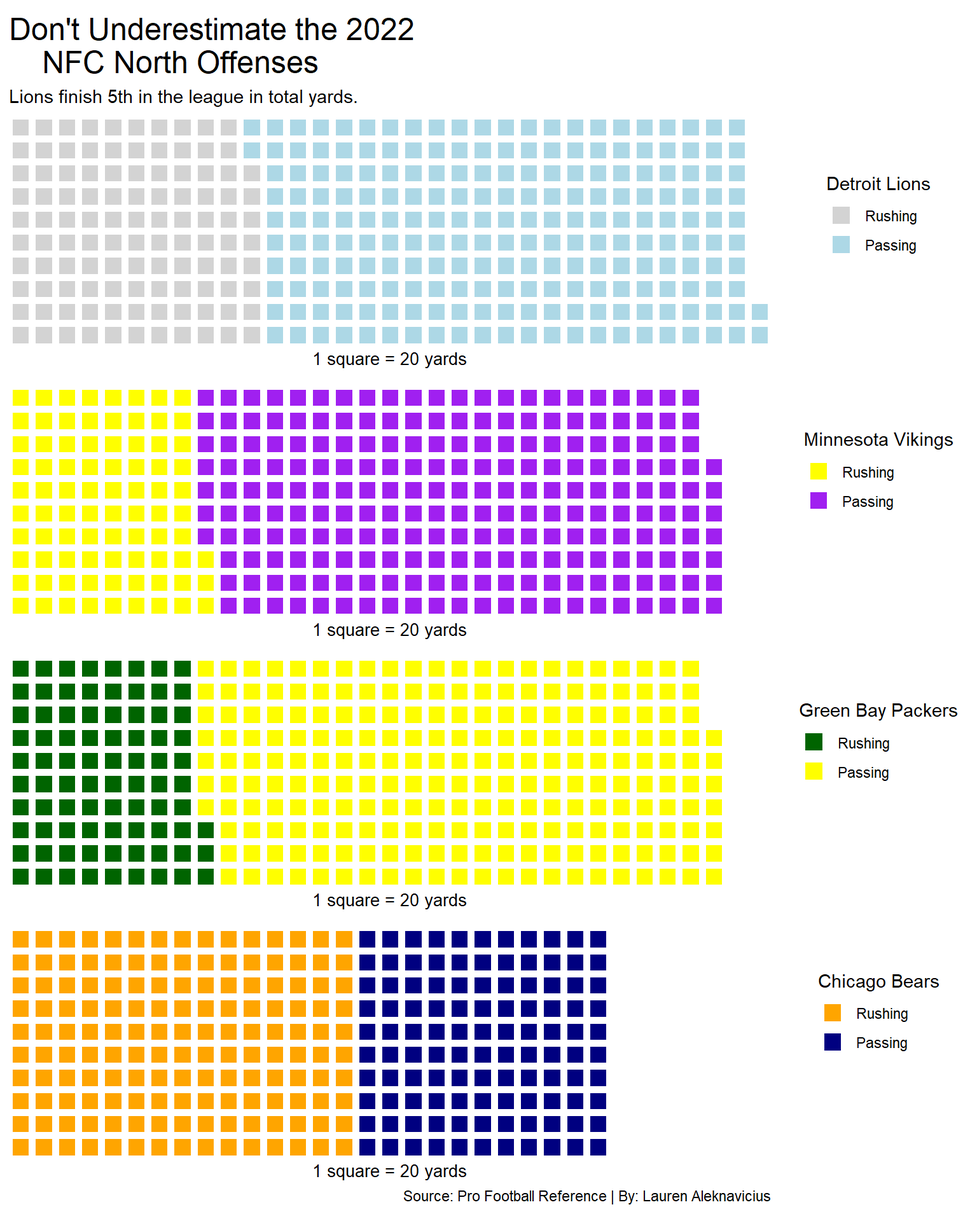
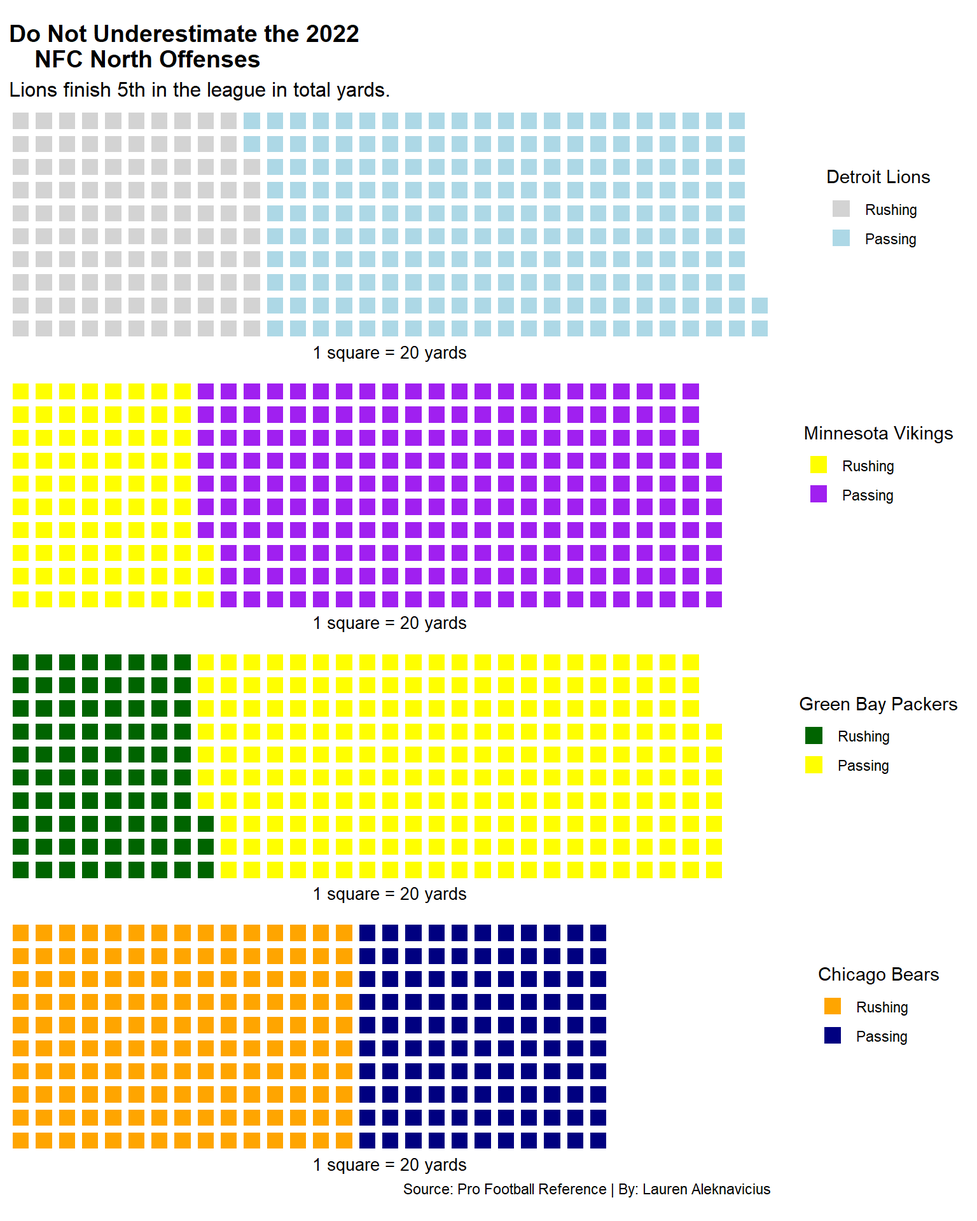
first post draft

diff --git a/posts/middle-of-the-pack/index.html b/posts/middle-of-the-pack/index.html
@@ -145,8 +145,8 @@ pre > code.sourceCode > span > a:first-child::before { text-decoration: underlin
       <h1 class="title">Was the NFC North the most cursed conference in the 2022 season?</h1>
                                 <div class="quarto-categories">
                 <div class="quarto-category">football</div>
-                <div class="quarto-category">NFC</div>
-                <div class="quarto-category">NFL</div>
+                <div class="quarto-category">sports</div>
+                <div class="quarto-category">data</div>
               </div>
                   </div>
   </div>
@@ -182,6 +182,12 @@ pre > code.sourceCode > span > a:first-child::before { text-decoration: underlin
 
 
 
+<p>The NFC North fans have been let down time after time watching their team throughout the entire 2022 season. The NFC North consists of the Green Bay Packers, Detroit Lions, Chicago Bears, and Minnesota Vikings. These teams had high hopes for 2022; however, they continuously finish in an unwanted standing.</p>
+<p>The last time a team in the NFC North played in the Super Bowl was in 2011. Green Bay won the game. The conference ranks among the last in the league for Super Bowl appearances. In fact, the Lions have never even won a NFC North title. The last time they won a title was in 1993, when the conference was the NFC Central.</p>
+<p>The NFC North has been could see there is a different dynamic between the conference throughout the entire 2022 season, for better and for worse.</p>
+<p>This begs the question: Was the NFC North the most cursed Conference in the 2022 season?</p>
+<p>Let’s take a look at the numbers.</p>
+<p>The first number we will look at is the total amount of takeaways for each NFL team throughout the season. Where do the NFC North defenses rank among the rest of the league?</p>
 <div class="cell">
 <details>
 <summary>Code</summary>
@@ -282,84 +288,103 @@ pre > code.sourceCode > span > a:first-child::before { text-decoration: underlin
 <span id="cb2-18"><a href="#cb2-18" aria-hidden="true" tabindex="-1"></a>  <span class="at">colors =</span> <span class="fu">c</span>(<span class="st">"lightgrey"</span>, <span class="st">"lightblue"</span>)</span>
 <span id="cb2-19"><a href="#cb2-19" aria-hidden="true" tabindex="-1"></a>) <span class="sc">+</span></span>
 <span id="cb2-20"><a href="#cb2-20" aria-hidden="true" tabindex="-1"></a>  <span class="fu">labs</span>(</span>
-<span id="cb2-21"><a href="#cb2-21" aria-hidden="true" tabindex="-1"></a>    <span class="at">title =</span> <span class="st">"Don't Underestimate the 2022</span></span>
+<span id="cb2-21"><a href="#cb2-21" aria-hidden="true" tabindex="-1"></a>    <span class="at">title =</span> <span class="st">"Do Not Underestimate the 2022</span></span>
 <span id="cb2-22"><a href="#cb2-22" aria-hidden="true" tabindex="-1"></a><span class="st">    NFC North Offenses"</span>,</span>
 <span id="cb2-23"><a href="#cb2-23" aria-hidden="true" tabindex="-1"></a>    <span class="at">subtitle =</span> <span class="st">"Lions finish 5th in the league in total yards."</span></span>
-<span id="cb2-24"><a href="#cb2-24" aria-hidden="true" tabindex="-1"></a>  ) </span>
-<span id="cb2-25"><a href="#cb2-25" aria-hidden="true" tabindex="-1"></a><span class="sc">+</span> <span class="fu">guides</span>(<span class="at">fill=</span><span class="fu">guide_legend</span>(<span class="at">title=</span><span class="st">"Detroit Lions"</span>)),</span>
-<span id="cb2-26"><a href="#cb2-26" aria-hidden="true" tabindex="-1"></a></span>
-<span id="cb2-27"><a href="#cb2-27" aria-hidden="true" tabindex="-1"></a><span class="fu">waffle</span>(</span>
-<span id="cb2-28"><a href="#cb2-28" aria-hidden="true" tabindex="-1"></a>  mnwaffle<span class="sc">/</span><span class="dv">20</span>,</span>
-<span id="cb2-29"><a href="#cb2-29" aria-hidden="true" tabindex="-1"></a>  <span class="at">rows=</span><span class="dv">10</span>,</span>
-<span id="cb2-30"><a href="#cb2-30" aria-hidden="true" tabindex="-1"></a>  <span class="at">xlab=</span> <span class="st">"1 square = 20 yards"</span>,</span>
-<span id="cb2-31"><a href="#cb2-31" aria-hidden="true" tabindex="-1"></a>  <span class="at">colors =</span> <span class="fu">c</span>(<span class="st">"yellow"</span>, <span class="st">"purple"</span>, <span class="st">"white"</span>)</span>
-<span id="cb2-32"><a href="#cb2-32" aria-hidden="true" tabindex="-1"></a>  )</span>
-<span id="cb2-33"><a href="#cb2-33" aria-hidden="true" tabindex="-1"></a>  <span class="sc">+</span> <span class="fu">guides</span>(<span class="at">fill=</span><span class="fu">guide_legend</span>(<span class="at">title=</span><span class="st">"Minnesota Vikings"</span>)),</span>
-<span id="cb2-34"><a href="#cb2-34" aria-hidden="true" tabindex="-1"></a></span>
-<span id="cb2-35"><a href="#cb2-35" aria-hidden="true" tabindex="-1"></a><span class="fu">waffle</span>(</span>
-<span id="cb2-36"><a href="#cb2-36" aria-hidden="true" tabindex="-1"></a>  mnwaffle<span class="sc">/</span><span class="dv">20</span>,</span>
-<span id="cb2-37"><a href="#cb2-37" aria-hidden="true" tabindex="-1"></a>  <span class="at">rows=</span><span class="dv">10</span>,</span>
-<span id="cb2-38"><a href="#cb2-38" aria-hidden="true" tabindex="-1"></a>  <span class="at">xlab=</span> <span class="st">"1 square = 20 yards"</span>,</span>
-<span id="cb2-39"><a href="#cb2-39" aria-hidden="true" tabindex="-1"></a>  <span class="at">colors =</span> <span class="fu">c</span>(<span class="st">"darkgreen"</span>, <span class="st">"yellow"</span>, <span class="st">"white"</span>)</span>
-<span id="cb2-40"><a href="#cb2-40" aria-hidden="true" tabindex="-1"></a>)</span>
-<span id="cb2-41"><a href="#cb2-41" aria-hidden="true" tabindex="-1"></a> <span class="sc">+</span> <span class="fu">guides</span>(<span class="at">fill=</span><span class="fu">guide_legend</span>(<span class="at">title=</span><span class="st">"Green Bay Packers"</span>)),</span>
-<span id="cb2-42"><a href="#cb2-42" aria-hidden="true" tabindex="-1"></a></span>
-<span id="cb2-43"><a href="#cb2-43" aria-hidden="true" tabindex="-1"></a><span class="fu">waffle</span> (</span>
-<span id="cb2-44"><a href="#cb2-44" aria-hidden="true" tabindex="-1"></a> chwaffle<span class="sc">/</span><span class="dv">20</span>,</span>
-<span id="cb2-45"><a href="#cb2-45" aria-hidden="true" tabindex="-1"></a>  <span class="at">rows =</span> <span class="dv">10</span>, </span>
-<span id="cb2-46"><a href="#cb2-46" aria-hidden="true" tabindex="-1"></a>  <span class="at">xlab=</span> <span class="st">"1 square = 20 yards"</span>,</span>
-<span id="cb2-47"><a href="#cb2-47" aria-hidden="true" tabindex="-1"></a>  <span class="at">colors =</span> <span class="fu">c</span>(<span class="st">"orange"</span>, <span class="st">"navy"</span>, <span class="st">"white"</span>)</span>
-<span id="cb2-48"><a href="#cb2-48" aria-hidden="true" tabindex="-1"></a>) <span class="sc">+</span></span>
-<span id="cb2-49"><a href="#cb2-49" aria-hidden="true" tabindex="-1"></a>  <span class="fu">labs</span>(</span>
-<span id="cb2-50"><a href="#cb2-50" aria-hidden="true" tabindex="-1"></a>    <span class="at">caption =</span> <span class="st">"Source: Pro Football Reference | By: Lauren Aleknavicius"</span></span>
-<span id="cb2-51"><a href="#cb2-51" aria-hidden="true" tabindex="-1"></a>  )</span>
-<span id="cb2-52"><a href="#cb2-52" aria-hidden="true" tabindex="-1"></a> <span class="sc">+</span> <span class="fu">guides</span>(<span class="at">fill=</span><span class="fu">guide_legend</span>(<span class="at">title=</span><span class="st">"Chicago Bears"</span>))</span>
-<span id="cb2-53"><a href="#cb2-53" aria-hidden="true" tabindex="-1"></a>)</span></code><button title="Copy to Clipboard" class="code-copy-button"><i class="bi"></i></button></pre></div>
+<span id="cb2-24"><a href="#cb2-24" aria-hidden="true" tabindex="-1"></a>  ) <span class="sc">+</span></span>
+<span id="cb2-25"><a href="#cb2-25" aria-hidden="true" tabindex="-1"></a>  <span class="fu">theme</span>(</span>
+<span id="cb2-26"><a href="#cb2-26" aria-hidden="true" tabindex="-1"></a>    <span class="at">plot.title =</span> <span class="fu">element_text</span>(<span class="at">size =</span> <span class="dv">14</span>, <span class="at">face =</span><span class="st">"bold"</span>),</span>
+<span id="cb2-27"><a href="#cb2-27" aria-hidden="true" tabindex="-1"></a>    <span class="at">plot.subtitle =</span> <span class="fu">element_text</span>(<span class="at">size =</span> <span class="dv">12</span>)</span>
+<span id="cb2-28"><a href="#cb2-28" aria-hidden="true" tabindex="-1"></a>  )</span>
+<span id="cb2-29"><a href="#cb2-29" aria-hidden="true" tabindex="-1"></a><span class="sc">+</span> <span class="fu">guides</span>(<span class="at">fill=</span><span class="fu">guide_legend</span>(<span class="at">title=</span><span class="st">"Detroit Lions"</span>)),</span>
+<span id="cb2-30"><a href="#cb2-30" aria-hidden="true" tabindex="-1"></a></span>
+<span id="cb2-31"><a href="#cb2-31" aria-hidden="true" tabindex="-1"></a><span class="fu">waffle</span>(</span>
+<span id="cb2-32"><a href="#cb2-32" aria-hidden="true" tabindex="-1"></a>  mnwaffle<span class="sc">/</span><span class="dv">20</span>,</span>
+<span id="cb2-33"><a href="#cb2-33" aria-hidden="true" tabindex="-1"></a>  <span class="at">rows=</span><span class="dv">10</span>,</span>
+<span id="cb2-34"><a href="#cb2-34" aria-hidden="true" tabindex="-1"></a>  <span class="at">xlab=</span> <span class="st">"1 square = 20 yards"</span>,</span>
+<span id="cb2-35"><a href="#cb2-35" aria-hidden="true" tabindex="-1"></a>  <span class="at">colors =</span> <span class="fu">c</span>(<span class="st">"yellow"</span>, <span class="st">"purple"</span>, <span class="st">"white"</span>)</span>
+<span id="cb2-36"><a href="#cb2-36" aria-hidden="true" tabindex="-1"></a>  )</span>
+<span id="cb2-37"><a href="#cb2-37" aria-hidden="true" tabindex="-1"></a>  <span class="sc">+</span> <span class="fu">guides</span>(<span class="at">fill=</span><span class="fu">guide_legend</span>(<span class="at">title=</span><span class="st">"Minnesota Vikings"</span>)),</span>
+<span id="cb2-38"><a href="#cb2-38" aria-hidden="true" tabindex="-1"></a></span>
+<span id="cb2-39"><a href="#cb2-39" aria-hidden="true" tabindex="-1"></a><span class="fu">waffle</span>(</span>
+<span id="cb2-40"><a href="#cb2-40" aria-hidden="true" tabindex="-1"></a>  mnwaffle<span class="sc">/</span><span class="dv">20</span>,</span>
+<span id="cb2-41"><a href="#cb2-41" aria-hidden="true" tabindex="-1"></a>  <span class="at">rows=</span><span class="dv">10</span>,</span>
+<span id="cb2-42"><a href="#cb2-42" aria-hidden="true" tabindex="-1"></a>  <span class="at">xlab=</span> <span class="st">"1 square = 20 yards"</span>,</span>
+<span id="cb2-43"><a href="#cb2-43" aria-hidden="true" tabindex="-1"></a>  <span class="at">colors =</span> <span class="fu">c</span>(<span class="st">"darkgreen"</span>, <span class="st">"yellow"</span>, <span class="st">"white"</span>)</span>
+<span id="cb2-44"><a href="#cb2-44" aria-hidden="true" tabindex="-1"></a>)</span>
+<span id="cb2-45"><a href="#cb2-45" aria-hidden="true" tabindex="-1"></a> <span class="sc">+</span> <span class="fu">guides</span>(<span class="at">fill=</span><span class="fu">guide_legend</span>(<span class="at">title=</span><span class="st">"Green Bay Packers"</span>)),</span>
+<span id="cb2-46"><a href="#cb2-46" aria-hidden="true" tabindex="-1"></a></span>
+<span id="cb2-47"><a href="#cb2-47" aria-hidden="true" tabindex="-1"></a><span class="fu">waffle</span> (</span>
+<span id="cb2-48"><a href="#cb2-48" aria-hidden="true" tabindex="-1"></a> chwaffle<span class="sc">/</span><span class="dv">20</span>,</span>
+<span id="cb2-49"><a href="#cb2-49" aria-hidden="true" tabindex="-1"></a>  <span class="at">rows =</span> <span class="dv">10</span>, </span>
+<span id="cb2-50"><a href="#cb2-50" aria-hidden="true" tabindex="-1"></a>  <span class="at">xlab=</span> <span class="st">"1 square = 20 yards"</span>,</span>
+<span id="cb2-51"><a href="#cb2-51" aria-hidden="true" tabindex="-1"></a>  <span class="at">colors =</span> <span class="fu">c</span>(<span class="st">"orange"</span>, <span class="st">"navy"</span>, <span class="st">"white"</span>)</span>
+<span id="cb2-52"><a href="#cb2-52" aria-hidden="true" tabindex="-1"></a>) <span class="sc">+</span></span>
+<span id="cb2-53"><a href="#cb2-53" aria-hidden="true" tabindex="-1"></a>  <span class="fu">labs</span>(</span>
+<span id="cb2-54"><a href="#cb2-54" aria-hidden="true" tabindex="-1"></a>    <span class="at">caption =</span> <span class="st">"Source: Pro Football Reference | By: Lauren Aleknavicius"</span></span>
+<span id="cb2-55"><a href="#cb2-55" aria-hidden="true" tabindex="-1"></a>  )</span>
+<span id="cb2-56"><a href="#cb2-56" aria-hidden="true" tabindex="-1"></a> <span class="sc">+</span> <span class="fu">guides</span>(<span class="at">fill=</span><span class="fu">guide_legend</span>(<span class="at">title=</span><span class="st">"Chicago Bears"</span>))</span>
+<span id="cb2-57"><a href="#cb2-57" aria-hidden="true" tabindex="-1"></a>) <span class="sc">+</span></span>
+<span id="cb2-58"><a href="#cb2-58" aria-hidden="true" tabindex="-1"></a>  <span class="fu">theme</span>(</span>
+<span id="cb2-59"><a href="#cb2-59" aria-hidden="true" tabindex="-1"></a>    <span class="at">axis.title =</span> <span class="fu">element_text</span>(<span class="at">size =</span> <span class="dv">8</span>),</span>
+<span id="cb2-60"><a href="#cb2-60" aria-hidden="true" tabindex="-1"></a>    <span class="at">panel.grid.minor =</span> <span class="fu">element_blank</span>(),</span>
+<span id="cb2-61"><a href="#cb2-61" aria-hidden="true" tabindex="-1"></a>    <span class="at">plot.title.position =</span> <span class="st">"plot"</span></span>
+<span id="cb2-62"><a href="#cb2-62" aria-hidden="true" tabindex="-1"></a>  )</span></code><button title="Copy to Clipboard" class="code-copy-button"><i class="bi"></i></button></pre></div>
 </details>
 <div class="cell-output-display">
 <p><img src="index_files/figure-html/unnamed-chunk-2-1.png" class="img-fluid" width="768"></p>
+</div>
+<div class="cell-output cell-output-stdout">
+<pre><code>NULL</code></pre>
 </div>
 </div>
 <div class="cell">
 <details>
 <summary>Code</summary>
-<div class="sourceCode cell-code" id="cb3"><pre class="sourceCode r code-with-copy"><code class="sourceCode r"><span id="cb3-1"><a href="#cb3-1" aria-hidden="true" tabindex="-1"></a>totals <span class="ot">&lt;-</span> <span class="fu">read_csv</span>(<span class="st">"games.csv"</span>)</span>
-<span id="cb3-2"><a href="#cb3-2" aria-hidden="true" tabindex="-1"></a></span>
-<span id="cb3-3"><a href="#cb3-3" aria-hidden="true" tabindex="-1"></a>gbtd <span class="ot">&lt;-</span> totals <span class="sc">|&gt;</span></span>
-<span id="cb3-4"><a href="#cb3-4" aria-hidden="true" tabindex="-1"></a>  <span class="fu">filter</span>(Team <span class="sc">==</span> <span class="st">"Green Bay Packers"</span>)</span>
-<span id="cb3-5"><a href="#cb3-5" aria-hidden="true" tabindex="-1"></a></span>
-<span id="cb3-6"><a href="#cb3-6" aria-hidden="true" tabindex="-1"></a>mntd <span class="ot">&lt;-</span> totals <span class="sc">|&gt;</span></span>
-<span id="cb3-7"><a href="#cb3-7" aria-hidden="true" tabindex="-1"></a>  <span class="fu">filter</span>(Team <span class="sc">==</span> <span class="st">"Minnesota Vikings"</span>)</span>
-<span id="cb3-8"><a href="#cb3-8" aria-hidden="true" tabindex="-1"></a></span>
-<span id="cb3-9"><a href="#cb3-9" aria-hidden="true" tabindex="-1"></a>chtd <span class="ot">&lt;-</span> totals <span class="sc">|&gt;</span></span>
-<span id="cb3-10"><a href="#cb3-10" aria-hidden="true" tabindex="-1"></a>  <span class="fu">filter</span>(Team <span class="sc">==</span> <span class="st">"Chicago Bears"</span>)</span>
-<span id="cb3-11"><a href="#cb3-11" aria-hidden="true" tabindex="-1"></a></span>
-<span id="cb3-12"><a href="#cb3-12" aria-hidden="true" tabindex="-1"></a>dttd <span class="ot">&lt;-</span> totals <span class="sc">|&gt;</span></span>
-<span id="cb3-13"><a href="#cb3-13" aria-hidden="true" tabindex="-1"></a>  <span class="fu">filter</span>(Team <span class="sc">==</span> <span class="st">"Detroit Lions"</span>)</span>
-<span id="cb3-14"><a href="#cb3-14" aria-hidden="true" tabindex="-1"></a></span>
-<span id="cb3-15"><a href="#cb3-15" aria-hidden="true" tabindex="-1"></a><span class="fu">ggplot</span>() <span class="sc">+</span></span>
-<span id="cb3-16"><a href="#cb3-16" aria-hidden="true" tabindex="-1"></a>  <span class="fu">geom_point</span>(</span>
-<span id="cb3-17"><a href="#cb3-17" aria-hidden="true" tabindex="-1"></a>    <span class="at">data=</span>totals,</span>
-<span id="cb3-18"><a href="#cb3-18" aria-hidden="true" tabindex="-1"></a>    <span class="fu">aes</span>(<span class="at">x=</span>PF, <span class="at">y=</span>PA)) <span class="sc">+</span></span>
-<span id="cb3-19"><a href="#cb3-19" aria-hidden="true" tabindex="-1"></a>  <span class="fu">geom_point</span>(<span class="at">data=</span>dttd, <span class="fu">aes</span>(<span class="at">x=</span>PF, <span class="at">y=</span>PA), <span class="at">color=</span><span class="st">"lightblue"</span>, ) <span class="sc">+</span></span>
-<span id="cb3-20"><a href="#cb3-20" aria-hidden="true" tabindex="-1"></a>  <span class="fu">geom_point</span>(<span class="at">data=</span>chtd, <span class="fu">aes</span>(<span class="at">x=</span>PF, <span class="at">y=</span>PA), <span class="at">color=</span><span class="st">"orange"</span>)  <span class="sc">+</span></span>
-<span id="cb3-21"><a href="#cb3-21" aria-hidden="true" tabindex="-1"></a>  <span class="fu">geom_point</span>(<span class="at">data=</span>gbtd, <span class="fu">aes</span>(<span class="at">x=</span>PF, <span class="at">y=</span>PA), <span class="at">color=</span><span class="st">"darkgreen"</span>) <span class="sc">+</span></span>
-<span id="cb3-22"><a href="#cb3-22" aria-hidden="true" tabindex="-1"></a>  <span class="fu">geom_point</span>(<span class="at">data=</span>mntd, <span class="fu">aes</span>(<span class="at">x=</span>PF, <span class="at">y=</span>PA), <span class="at">color=</span><span class="st">"purple"</span>) <span class="sc">+</span> </span>
-<span id="cb3-23"><a href="#cb3-23" aria-hidden="true" tabindex="-1"></a>  <span class="fu">geom_text_repel</span>(<span class="at">data=</span>dttd, <span class="fu">aes</span>(<span class="at">x=</span>PF, <span class="at">y=</span>PA, <span class="at">label=</span><span class="st">"Detriot Lions"</span>), <span class="at">size=</span><span class="dv">3</span>) <span class="sc">+</span></span>
-<span id="cb3-24"><a href="#cb3-24" aria-hidden="true" tabindex="-1"></a>  <span class="fu">geom_text_repel</span>(<span class="at">data=</span>chtd, <span class="fu">aes</span>(<span class="at">x=</span>PF, <span class="at">y=</span>PA, <span class="at">label=</span><span class="st">"Chicago Bears"</span>), <span class="at">size=</span><span class="dv">3</span>) <span class="sc">+</span></span>
-<span id="cb3-25"><a href="#cb3-25" aria-hidden="true" tabindex="-1"></a>  <span class="fu">geom_text_repel</span>(<span class="at">data=</span>gbtd, <span class="fu">aes</span>(<span class="at">x=</span>PF, <span class="at">y=</span>PA, <span class="at">label=</span><span class="st">"Green Bay Packers"</span>), <span class="at">size=</span><span class="dv">3</span>) <span class="sc">+</span></span>
-<span id="cb3-26"><a href="#cb3-26" aria-hidden="true" tabindex="-1"></a>  <span class="fu">geom_text_repel</span>(<span class="at">data=</span>mntd, <span class="fu">aes</span>(<span class="at">x=</span>PF, <span class="at">y=</span>PA, <span class="at">label=</span><span class="st">"Minnesota Vikings"</span>), <span class="at">size=</span><span class="dv">3</span>) <span class="sc">+</span></span>
-<span id="cb3-27"><a href="#cb3-27" aria-hidden="true" tabindex="-1"></a>  <span class="fu">labs</span>(</span>
-<span id="cb3-28"><a href="#cb3-28" aria-hidden="true" tabindex="-1"></a>    <span class="at">title =</span> <span class="st">"NFC"</span>,</span>
-<span id="cb3-29"><a href="#cb3-29" aria-hidden="true" tabindex="-1"></a>    <span class="at">subtitle =</span> <span class="st">"Packers defense stops"</span>,</span>
-<span id="cb3-30"><a href="#cb3-30" aria-hidden="true" tabindex="-1"></a>    <span class="at">caption =</span> <span class="st">"Source: Pro Football Reference | By: Lauren Aleknavicius "</span>,</span>
-<span id="cb3-31"><a href="#cb3-31" aria-hidden="true" tabindex="-1"></a>    <span class="at">x=</span> <span class="st">"Points Scored"</span>,</span>
-<span id="cb3-32"><a href="#cb3-32" aria-hidden="true" tabindex="-1"></a>    <span class="at">y=</span> <span class="st">"Points Allowed"</span></span>
-<span id="cb3-33"><a href="#cb3-33" aria-hidden="true" tabindex="-1"></a>  ) <span class="sc">+</span></span>
-<span id="cb3-34"><a href="#cb3-34" aria-hidden="true" tabindex="-1"></a>  <span class="fu">theme_light</span>()</span></code><button title="Copy to Clipboard" class="code-copy-button"><i class="bi"></i></button></pre></div>
+<div class="sourceCode cell-code" id="cb4"><pre class="sourceCode r code-with-copy"><code class="sourceCode r"><span id="cb4-1"><a href="#cb4-1" aria-hidden="true" tabindex="-1"></a>totals <span class="ot">&lt;-</span> <span class="fu">read_csv</span>(<span class="st">"games.csv"</span>)</span>
+<span id="cb4-2"><a href="#cb4-2" aria-hidden="true" tabindex="-1"></a></span>
+<span id="cb4-3"><a href="#cb4-3" aria-hidden="true" tabindex="-1"></a>gbtd <span class="ot">&lt;-</span> totals <span class="sc">|&gt;</span></span>
+<span id="cb4-4"><a href="#cb4-4" aria-hidden="true" tabindex="-1"></a>  <span class="fu">filter</span>(Team <span class="sc">==</span> <span class="st">"Green Bay Packers"</span>)</span>
+<span id="cb4-5"><a href="#cb4-5" aria-hidden="true" tabindex="-1"></a></span>
+<span id="cb4-6"><a href="#cb4-6" aria-hidden="true" tabindex="-1"></a>mntd <span class="ot">&lt;-</span> totals <span class="sc">|&gt;</span></span>
+<span id="cb4-7"><a href="#cb4-7" aria-hidden="true" tabindex="-1"></a>  <span class="fu">filter</span>(Team <span class="sc">==</span> <span class="st">"Minnesota Vikings"</span>)</span>
+<span id="cb4-8"><a href="#cb4-8" aria-hidden="true" tabindex="-1"></a></span>
+<span id="cb4-9"><a href="#cb4-9" aria-hidden="true" tabindex="-1"></a>chtd <span class="ot">&lt;-</span> totals <span class="sc">|&gt;</span></span>
+<span id="cb4-10"><a href="#cb4-10" aria-hidden="true" tabindex="-1"></a>  <span class="fu">filter</span>(Team <span class="sc">==</span> <span class="st">"Chicago Bears"</span>)</span>
+<span id="cb4-11"><a href="#cb4-11" aria-hidden="true" tabindex="-1"></a></span>
+<span id="cb4-12"><a href="#cb4-12" aria-hidden="true" tabindex="-1"></a>dttd <span class="ot">&lt;-</span> totals <span class="sc">|&gt;</span></span>
+<span id="cb4-13"><a href="#cb4-13" aria-hidden="true" tabindex="-1"></a>  <span class="fu">filter</span>(Team <span class="sc">==</span> <span class="st">"Detroit Lions"</span>)</span>
+<span id="cb4-14"><a href="#cb4-14" aria-hidden="true" tabindex="-1"></a></span>
+<span id="cb4-15"><a href="#cb4-15" aria-hidden="true" tabindex="-1"></a><span class="fu">ggplot</span>() <span class="sc">+</span></span>
+<span id="cb4-16"><a href="#cb4-16" aria-hidden="true" tabindex="-1"></a>  <span class="fu">geom_point</span>(</span>
+<span id="cb4-17"><a href="#cb4-17" aria-hidden="true" tabindex="-1"></a>    <span class="at">data=</span>totals,</span>
+<span id="cb4-18"><a href="#cb4-18" aria-hidden="true" tabindex="-1"></a>    <span class="fu">aes</span>(<span class="at">x=</span>PF, <span class="at">y=</span>PA)) <span class="sc">+</span></span>
+<span id="cb4-19"><a href="#cb4-19" aria-hidden="true" tabindex="-1"></a>  <span class="fu">geom_point</span>(<span class="at">data=</span>dttd, <span class="fu">aes</span>(<span class="at">x=</span>PF, <span class="at">y=</span>PA), <span class="at">color=</span><span class="st">"lightblue"</span>, ) <span class="sc">+</span></span>
+<span id="cb4-20"><a href="#cb4-20" aria-hidden="true" tabindex="-1"></a>  <span class="fu">geom_point</span>(<span class="at">data=</span>chtd, <span class="fu">aes</span>(<span class="at">x=</span>PF, <span class="at">y=</span>PA), <span class="at">color=</span><span class="st">"orange"</span>)  <span class="sc">+</span></span>
+<span id="cb4-21"><a href="#cb4-21" aria-hidden="true" tabindex="-1"></a>  <span class="fu">geom_point</span>(<span class="at">data=</span>gbtd, <span class="fu">aes</span>(<span class="at">x=</span>PF, <span class="at">y=</span>PA), <span class="at">color=</span><span class="st">"darkgreen"</span>) <span class="sc">+</span></span>
+<span id="cb4-22"><a href="#cb4-22" aria-hidden="true" tabindex="-1"></a>  <span class="fu">geom_point</span>(<span class="at">data=</span>mntd, <span class="fu">aes</span>(<span class="at">x=</span>PF, <span class="at">y=</span>PA), <span class="at">color=</span><span class="st">"purple"</span>) <span class="sc">+</span> </span>
+<span id="cb4-23"><a href="#cb4-23" aria-hidden="true" tabindex="-1"></a>  <span class="fu">geom_text_repel</span>(<span class="at">data=</span>dttd, <span class="fu">aes</span>(<span class="at">x=</span>PF, <span class="at">y=</span>PA, <span class="at">label=</span><span class="st">"Detriot Lions"</span>), <span class="at">size=</span><span class="dv">3</span>) <span class="sc">+</span></span>
+<span id="cb4-24"><a href="#cb4-24" aria-hidden="true" tabindex="-1"></a>  <span class="fu">geom_text_repel</span>(<span class="at">data=</span>chtd, <span class="fu">aes</span>(<span class="at">x=</span>PF, <span class="at">y=</span>PA, <span class="at">label=</span><span class="st">"Chicago Bears"</span>), <span class="at">size=</span><span class="dv">3</span>) <span class="sc">+</span></span>
+<span id="cb4-25"><a href="#cb4-25" aria-hidden="true" tabindex="-1"></a>  <span class="fu">geom_text_repel</span>(<span class="at">data=</span>gbtd, <span class="fu">aes</span>(<span class="at">x=</span>PF, <span class="at">y=</span>PA, <span class="at">label=</span><span class="st">"Green Bay Packers"</span>), <span class="at">size=</span><span class="dv">3</span>) <span class="sc">+</span></span>
+<span id="cb4-26"><a href="#cb4-26" aria-hidden="true" tabindex="-1"></a>  <span class="fu">geom_text_repel</span>(<span class="at">data=</span>mntd, <span class="fu">aes</span>(<span class="at">x=</span>PF, <span class="at">y=</span>PA, <span class="at">label=</span><span class="st">"Minnesota Vikings"</span>), <span class="at">size=</span><span class="dv">3</span>) <span class="sc">+</span></span>
+<span id="cb4-27"><a href="#cb4-27" aria-hidden="true" tabindex="-1"></a>  <span class="fu">labs</span>(</span>
+<span id="cb4-28"><a href="#cb4-28" aria-hidden="true" tabindex="-1"></a>    <span class="at">title =</span> <span class="st">"2022 NFC North: Best and Worst Points in the League"</span>,</span>
+<span id="cb4-29"><a href="#cb4-29" aria-hidden="true" tabindex="-1"></a>    <span class="at">subtitle =</span> <span class="st">"Bears rank first in the most points allowed."</span>,</span>
+<span id="cb4-30"><a href="#cb4-30" aria-hidden="true" tabindex="-1"></a>    <span class="at">caption =</span> <span class="st">"Source: Pro Football Reference | By: Lauren Aleknavicius "</span>,</span>
+<span id="cb4-31"><a href="#cb4-31" aria-hidden="true" tabindex="-1"></a>    <span class="at">x=</span> <span class="st">"Points Scored"</span>,</span>
+<span id="cb4-32"><a href="#cb4-32" aria-hidden="true" tabindex="-1"></a>    <span class="at">y=</span> <span class="st">"Points Allowed"</span></span>
+<span id="cb4-33"><a href="#cb4-33" aria-hidden="true" tabindex="-1"></a>  ) <span class="sc">+</span></span>
+<span id="cb4-34"><a href="#cb4-34" aria-hidden="true" tabindex="-1"></a>  <span class="fu">theme_light</span>() <span class="sc">+</span></span>
+<span id="cb4-35"><a href="#cb4-35" aria-hidden="true" tabindex="-1"></a>  <span class="fu">theme</span>(</span>
+<span id="cb4-36"><a href="#cb4-36" aria-hidden="true" tabindex="-1"></a>    <span class="at">plot.title =</span> <span class="fu">element_text</span>(<span class="at">size =</span> <span class="dv">16</span>, <span class="at">face =</span><span class="st">"bold"</span>),</span>
+<span id="cb4-37"><a href="#cb4-37" aria-hidden="true" tabindex="-1"></a>    <span class="at">plot.subtitle =</span> <span class="fu">element_text</span>(<span class="at">size =</span> <span class="dv">12</span>),</span>
+<span id="cb4-38"><a href="#cb4-38" aria-hidden="true" tabindex="-1"></a>    <span class="at">axis.title =</span> <span class="fu">element_text</span>(<span class="at">size =</span> <span class="dv">8</span>),</span>
+<span id="cb4-39"><a href="#cb4-39" aria-hidden="true" tabindex="-1"></a>    <span class="at">panel.grid.minor =</span> <span class="fu">element_blank</span>(),</span>
+<span id="cb4-40"><a href="#cb4-40" aria-hidden="true" tabindex="-1"></a>    <span class="at">plot.title.position =</span> <span class="st">"plot"</span></span>
+<span id="cb4-41"><a href="#cb4-41" aria-hidden="true" tabindex="-1"></a>  )</span></code><button title="Copy to Clipboard" class="code-copy-button"><i class="bi"></i></button></pre></div>
 </details>
 <div class="cell-output-display">
-<p><img src="index_files/figure-html/unnamed-chunk-3-1.png" class="img-fluid" width="672"></p>
+<p><img src="index_files/figure-html/unnamed-chunk-3-1.png" class="img-fluid" width="768"></p>
 </div>
 </div>
 

diff --git a/index.html b/index.html
@@ -196,7 +196,7 @@ data
 </div>
 <a href="./posts/middle-of-the-pack/index.html">
 <div class="listing-description">
-
+The NFC North fans have been let down time after time watching their team throughout the entire 2022 season. The NFC North…
 </div>
 </a>
 </div>
